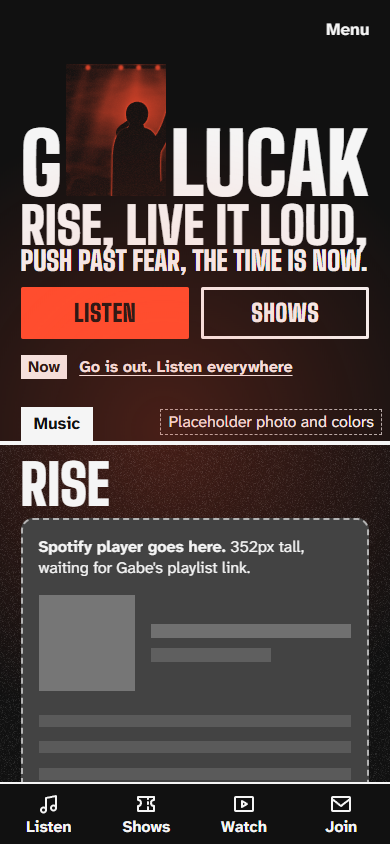
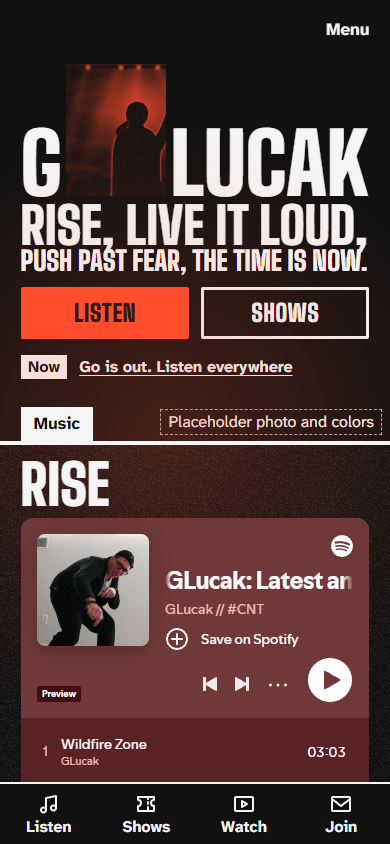
Prototype: real Spotify embed, 'Play full songs on Spotify' (D19); From Gabe ruling (D21)
The embed loads logged out under the real CSP at 390 and 1280 (check.mjs CHECK 1b);
logged-out fans get 30-second previews, so the link says why to tap. DESIGN.md
sections 5, 7, 8, 12, 13 updated.

Changed region(s): [[0.0308, 0.6161, 0.9538, 0.9242]]

diff --git a/prototype/index.html b/prototype/index.html
@@ -74,17 +74,13 @@
           <h2 class="spine" id="h-rise"><span class="tab">Music</span> <span class="phrase phrase-rise">Rise</span></h2>
 
           <div class="rise-player">
-            <!-- Exactly 352px. The real embed replaces this box; the height never changes. -->
-            <div class="player-box" role="group" aria-label="Spotify player placeholder">
-              <p class="player-note"><strong>Spotify player goes here.</strong> 352px tall, waiting for Gabe's playlist link.</p>
-              <div class="player-fake" aria-hidden="true">
-                <span class="pf-art"></span>
-                <span class="pf-lines"><i></i><i></i></span>
-              </div>
-              <ol class="player-rows" aria-hidden="true"><li></li><li></li><li></li><li></li></ol>
+            <!-- Exactly 352px, reserved before the embed loads. The note sits under the iframe: seen only while it loads or if it's blocked. -->
+            <div class="player-box">
+              <p class="player-note">Loading the Spotify player. If it doesn't appear, use <strong>Play full songs on Spotify</strong> below.</p>
+              <iframe class="player" title="GLucak playlist on Spotify" src="https://open.spotify.com/embed/playlist/0D45boIc9xWAdDjz1uTDRo?utm_source=generator" width="100%" height="352" loading="lazy" allow="autoplay; clipboard-write; encrypted-media; fullscreen; picture-in-picture"></iframe>
             </div>
             <p class="under-player">
-              <a class="pending" href="#music" title="Needs Gabe's playlist link">Open in Spotify</a>
+              <a href="https://open.spotify.com/playlist/0D45boIc9xWAdDjz1uTDRo" rel="noopener">Play full songs on Spotify</a>
               <a href="https://wingsmusic.lnk.to/370407-Go" rel="noopener">Listen everywhere</a>
             </p>
           </div>

diff --git a/prototype/styles.css b/prototype/styles.css
@@ -278,17 +278,11 @@ html[data-hero='b'] .slot img { width: 100%; height: 100%; object-fit: cover; ob
 /* ---------- Rise ---------- */
 .rise-player { margin-top: var(--space-s); }
 .player-box {
-  height: 352px; overflow: hidden; padding: var(--space-m);
-  background: color-mix(in srgb, var(--bg) 78%, var(--text)); border: 2px dashed var(--muted); border-radius: 12px;
+  position: relative; height: 352px; overflow: hidden; border-radius: 12px;
+  background: color-mix(in srgb, var(--bg) 78%, var(--text));
 }
-.player-note { font-size: var(--step--1); line-height: 1.35; }
-.player-fake { display: flex; gap: var(--space-m); margin-top: var(--space-m); }
-.pf-art { width: 96px; height: 96px; flex: none; background: var(--muted); opacity: 0.45; }
-.pf-lines { flex: 1; display: grid; gap: 0.6rem; align-content: center; }
-.pf-lines i { display: block; height: 14px; background: var(--muted); opacity: 0.4; }
-.pf-lines i + i { width: 60%; opacity: 0.25; }
-.player-rows { display: grid; gap: 0.9rem; margin-top: var(--space-l); }
-.player-rows li { height: 12px; background: var(--muted); opacity: 0.2; }
+.player-note { padding: var(--space-m); font-size: var(--step--1); line-height: 1.35; }
+.player { position: absolute; inset: 0; display: block; width: 100%; height: 352px; border: 0; border-radius: 12px; }
 .under-player { display: flex; flex-wrap: wrap; gap: 0 var(--space-l); margin-top: var(--space-xs); font-weight: 700; font-size: var(--step--1); }
 .under-player a { display: inline-flex; align-items: center; min-height: 48px; text-underline-offset: 3px; }
 

diff --git a/DESIGN.md b/DESIGN.md
@@ -127,7 +127,7 @@ with focus moved in, Escape and link tap close it. Shop slot: one nav entry, off
 - **Now line:** "Now" tag + one link. See section 7. No ticker: it never moves.
 
 **1. RISE, tab Music.** Phrase at 3.5rem on phones; huge in a left column from 900px. The official embed at exactly **352px**,
-full column width, with its height reserved. Under it: **Open in Spotify**, **Listen everywhere**. Then the latest release: cover 96px
+full column width, with its height reserved. Under it: **Play full songs on Spotify** (the playlist link: logged-out fans, most of them in Instagram's in-app browser, get 30-second previews in the embed), **Listen everywhere**. Then the latest release: cover 96px
 (160px wide screens) as made, title, "Latest release. Listen on:", two links.
 
 **2. LIVE IT LOUD, tab Shows.** One fitted line. Then next shows: **first show as the poster** + up to two rows. Poster: fitted date,
@@ -175,7 +175,7 @@ Same header, footer, bar, tokens and tabs. Each page opens with its one fitted p
 | **Date set** | Countdown in days, static between loads (no ticking digits, so no motion), plus pre-save if linked. |
 | **Release day** | Flips to "Out now" by date, New York time, with a listen link. |
 | **No playlist link** | Launch blocker. Never ship the empty box. |
-| **Embed blocked or slow** | Box keeps 352px; text "Open in Spotify" with the link. No layout jump. |
+| **Embed blocked or slow** | Box keeps 352px. A note under the iframe, seen only while it loads or if it's blocked: "Loading the Spotify player. If it doesn't appear, use Play full songs on Spotify below." No layout jump. |
 | **No JS** | Page reads fully: no motion, headings visible, facade is a link, server-rendered shows. |
 | **Sign-up** | Success: "You're on the list." Bad email: "Enter an email like name@example.com." Server down: "That didn't go through. Try again." All in `role="status"`. |
 | **Link not known yet** | Build fails rather than ships `#`. In the prototype these are dashed links. |
@@ -190,6 +190,10 @@ Exactly two motions exist on Home.
 
 Banned: flashing, strobe, glitch, distortion, video in the hero, tickers, carousels, parallax, pinned scroll, smooth-scroll hijacking,
 hover animation on cards, any animation on `background`, `filter` or layout. A clip added later must pass a frame-level flash check first (D14).
+
+**Spotify's embed** scrolls a long playlist title inside its cross-origin iframe. It stops under the device's reduce-motion setting
+(checked 2026-11-05 with `--force-prefers-reduced-motion`); our footer Motion switch can't reach it. Accepted: small, no luminance
+change, and the device setting stops it (D19).
 
 **Off switches, both required.** CSS motion is only declared inside `@media (prefers-reduced-motion: no-preference)` **and** under
 `html[data-motion='on']`, so with no JS or either switch off, nothing runs. `boot.js` sets `data-motion` before paint. Footer button:
@@ -227,7 +231,7 @@ output, http(s) links only, with the `<script>` and `' OR 1=1 --` tests.
 ## 12. Measured (2026-11-02, Chrome headless over DevTools, `Emulation.setDeviceMetricsOverride`, so 320 and 390 are true widths)
 | Check | Result |
 |---|---|
-| Player top at 390x660, clear of the bar | A: top 484, bar 598, **114px visible**. B: top 518, **80px visible**. Label fully visible on both. Box 352px |
+| Player top at 390x660, clear of the bar | A: top 484, bar 598, **114px visible**. B: top 518, **80px visible**. Box 352px (the real embed, 2026-11-05) |
 | Slogan and GLUCAK, no horizontal scroll | scrollWidth equals viewport at 320, 390, 1280 on both heroes. Slogan is two forced lines at 320: 41px and 21.6px |
 | D6 labels at 390 | 17px, weight 700, 17.3:1, exact nav word |
 | Text over photo, from pixels | Name 5.12:1 (A), slogan 5.36:1, Now line 13.13:1. Second era 5.12:1 |
@@ -237,11 +241,13 @@ output, http(s) links only, with the `<script>` and `' OR 1=1 --` tests.
 | Reduced motion | Emulated with `Emulation.setEmulatedMedia`: `document.getAnimations()` empty, headings visible. Footer switch: also empty |
 | Flash | **By construction:** the only loop is one 24s opacity and transform drift (opacity .68 to .88), so it cannot reach 3 flashes a second. Supporting sample only, too slow to detect a 3 Hz flash on its own: 87 frames over 26s, largest change in mean luminance 0.0001 against WCAG's 0.10. Most moving things on screen at once, brisk scroll: 1 |
 | CSP and errors | None under the real CSP. Also opens from disk |
+| Real Spotify embed (2026-11-05) | Loads logged out under the real CSP at 390 and 1280, no errors. Spotify's "Preview" badge shows (30-second previews). Background colour comes from the cover art. Title marquee stops under the device reduce-motion setting |
 
 ## 13. Not verified
 - **No real photo has been through the duotone.** The placeholders are drawn. Low-light muddiness (ROADMAP risk 9) is still open, and so is the hero pick.
 - **Safari and the Instagram in-app browser were not tested.** Only Chrome ran. Check `filter: url()`, `cqi`, `text-box`, `color-mix` and the safe areas on a real iPhone.
-- **The real Spotify embed was not loaded**, logged in or out; only a 352px box.
+- The Spotify embed ran only in headless Chrome, logged out. Logged-in playback, Safari, and Instagram's in-app browser (previews? does
+  the playlist link open the app?) are part of the real-phone test.
 - No PEAT run. The flash result rests on the code having one 24s loop, not on the 3.4 fps sample.
 - Screen readers and a keyboard-only pass were not run. Hero B's slot is thumbnail-sized on phones, as D14 predicted.
 - The Music, Shows and About pages, and the footer sign-up on them, are specified here, not prototyped.

diff --git a/DECISIONS.md b/DECISIONS.md
@@ -50,3 +50,15 @@ Desktop uses even numbers, Laptop odd. Format: number, date, question, ruling, w
   owner: "IDENTITY, 2027" and the "Epilepsy survivor" bio line on Home. Hero A vs B waits for real photos (D14).
   **Why:** every "done when" in direction.md section 9 step 3 is met and reproducible; what's left needs Gabe's
   photos or a real phone.
+- **D19** (2026-11-05, Laptop boss): Real Spotify embed in the prototype. **Ruling:** approved. The playlist link
+  reads "Play full songs on Spotify". Spotify's title marquee is accepted (it stops under the device reduce-motion
+  setting; our footer switch can't reach a cross-origin iframe). Spotify's cover-art background is accepted
+  (fallback: `&theme=0`). **Why:** logged-out fans, most from Instagram's in-app browser, get 30-second previews, so
+  the link says why to tap; hard rule 1 is met by the device setting.
+- **D21** (2026-11-05, Laptop boss, answers the Desktop's "From Gabe" idea on #1): **Ruling:** changed. At most one
+  quote per band, after the band's main content, never above the player (RISE: under the latest release; LIVE IT
+  LOUD: after All shows; THE TIME IS NOW: optional; PUSH PAST FEAR: none, the bio is already his words). Max 120
+  characters, exact, from posts `social-content.md` marks as his own, credited and linked ("GLucak, Instagram, Mar
+  2026"), static (never rotating), approved by Gabe via the owner. No approved quote means nothing shown. Data: an
+  optional `quote {text, url, date, platform}` per band. **Why:** the owner asked for a dialogue in his own voice; D6
+  keeps real content right under each heading, and a quote under RISE would push the player off the first screen.
